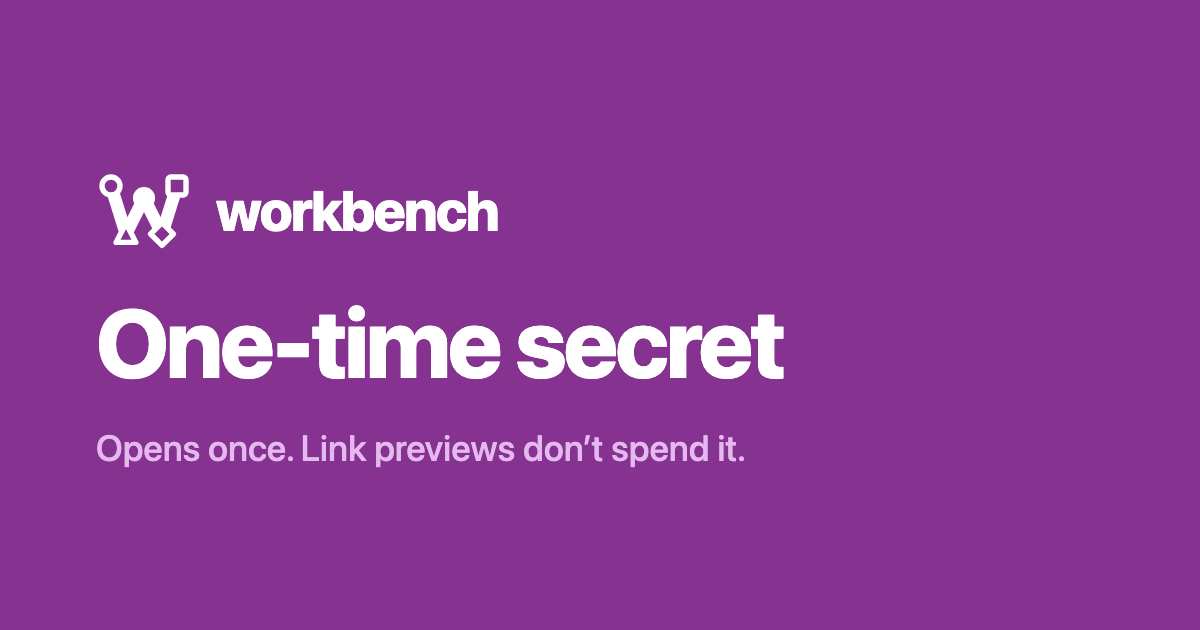
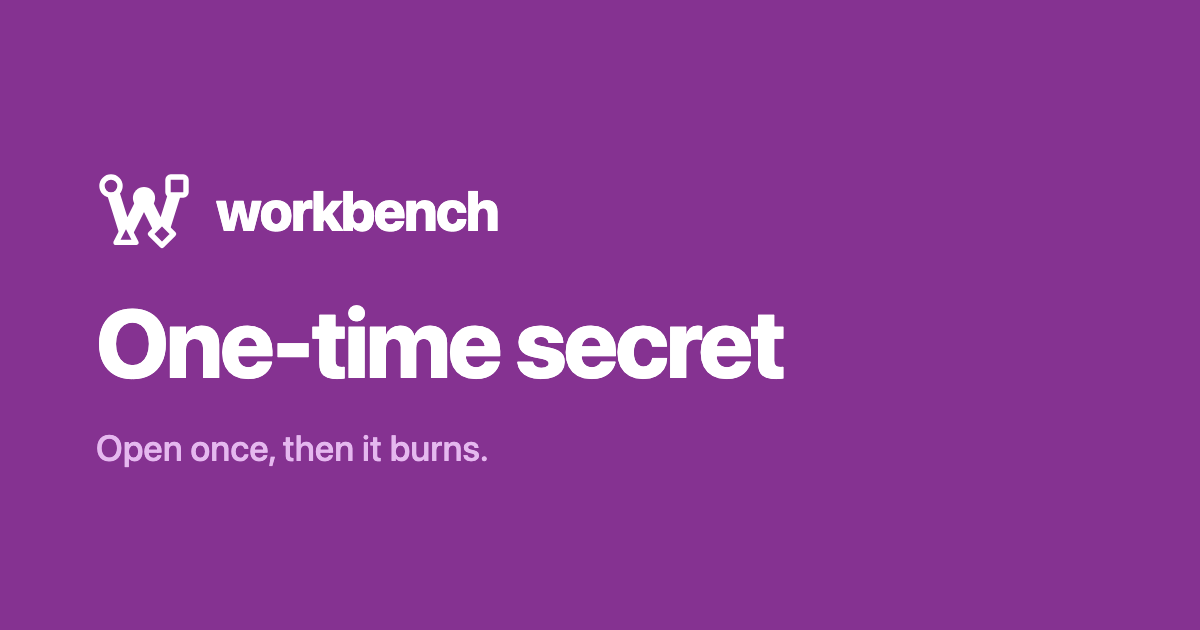
fix(vault): shorten one-time link card copy
The link-preview card (og:description and the OG image subtitle) said
"Opens once, then it is gone. Link previews don't spend it." — too long
for a chat unfurl, and the preview note is an implementation detail.
Both now read "Open once, then it burns."

Changed region(s): [[0.1542, 0.6937, 0.6167, 0.754]]

diff --git a/packages/server/src/vault/routes.ts b/packages/server/src/vault/routes.ts
@@ -79,7 +79,7 @@ export const OTL_PORTAL_DEFAULT_TTL_SECONDS = 300;
 // the portal's public/ and served at the portal root, which is
 // SERVER_PUBLIC_URL (built portal) or the dev server in front of it.
 const OTL_TITLE = "workbench \u00b7 One-time secret";
-const OTL_DESCRIPTION = "Opens once, then it is gone. Link previews don\u2019t spend it.";
+const OTL_DESCRIPTION = "Open once, then it burns.";
 const MARK_SVG =
   '<svg xmlns="http://www.w3.org/2000/svg" viewBox="0 0 32 32" width="28" height="28" aria-hidden="true"><rect x="0" y="0" width="32" height="32" rx="7" fill="#853291"/><path d="M5 8 L10 24 L16 12 L22 24 L27 8" fill="none" stroke="#ffffff" stroke-width="4.2" stroke-linecap="round" stroke-linejoin="round"/><g fill="none" stroke="#ffffff" stroke-width="1.8" stroke-linejoin="round"><circle cx="5" cy="8" r="3" fill="#853291"/><rect x="24" y="5" width="6" height="6" rx="0.9" fill="#853291"/><polygon points="10,20.4 13.3,26.8 6.7,26.8" fill="#853291"/><polygon points="22,20.2 25.8,24 22,27.8 18.2,24" fill="#853291"/></g><circle cx="16" cy="12" r="3.7" fill="#ffffff"/></svg>';
 
